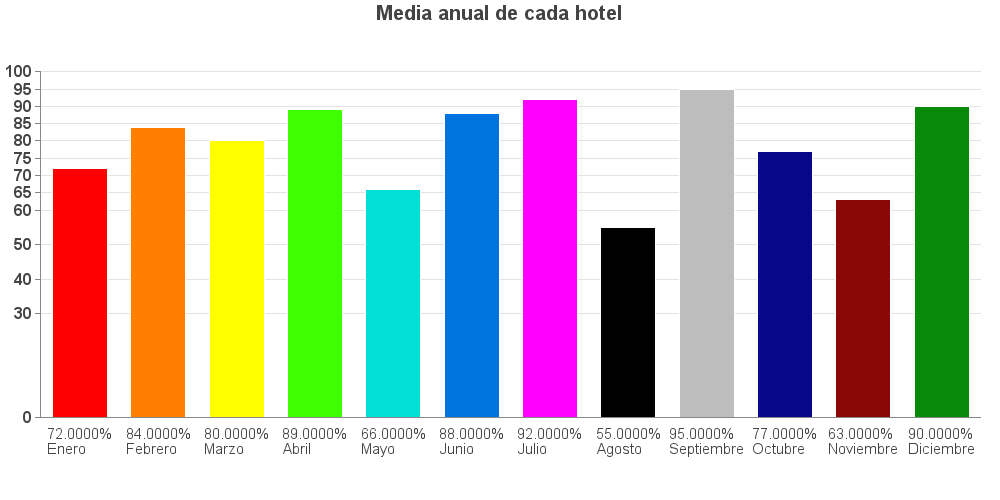
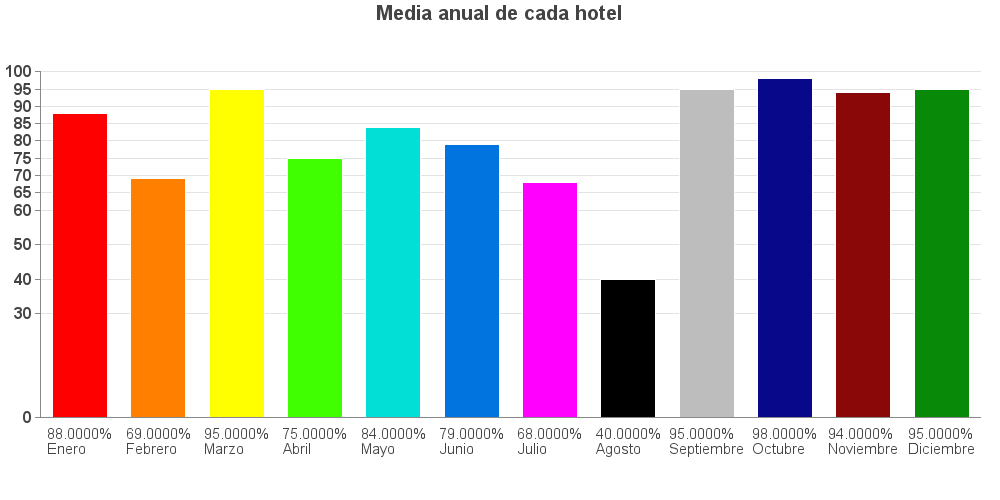
cambios en el color y pequeños errores corregidos

diff --git a/pages/ocupacion/ocupacion.php b/pages/ocupacion/ocupacion.php
@@ -266,7 +266,7 @@
                             $hotel="Todos";
                           if($mes=="")
                             $mes="Todos";
-                          if($mes="Mes")
+                          if($mes=="Mes")
                             $mes="Todos";
 
                           //echo "$hotel $mes $year";
@@ -275,6 +275,7 @@
                          if($hotel != 'Todos'){
                            //cuando se selecciona un mes
                            if($mes != 'Todos'){
+                             //echo "Estoy aqui";
                                $consulta = "SELECT hotel,ocupacion
                                             FROM ocupacion_hoteles
                                             WHERE hotel='".$hotel."' AND mes='".$mes."' AND ano='".$year."';";
